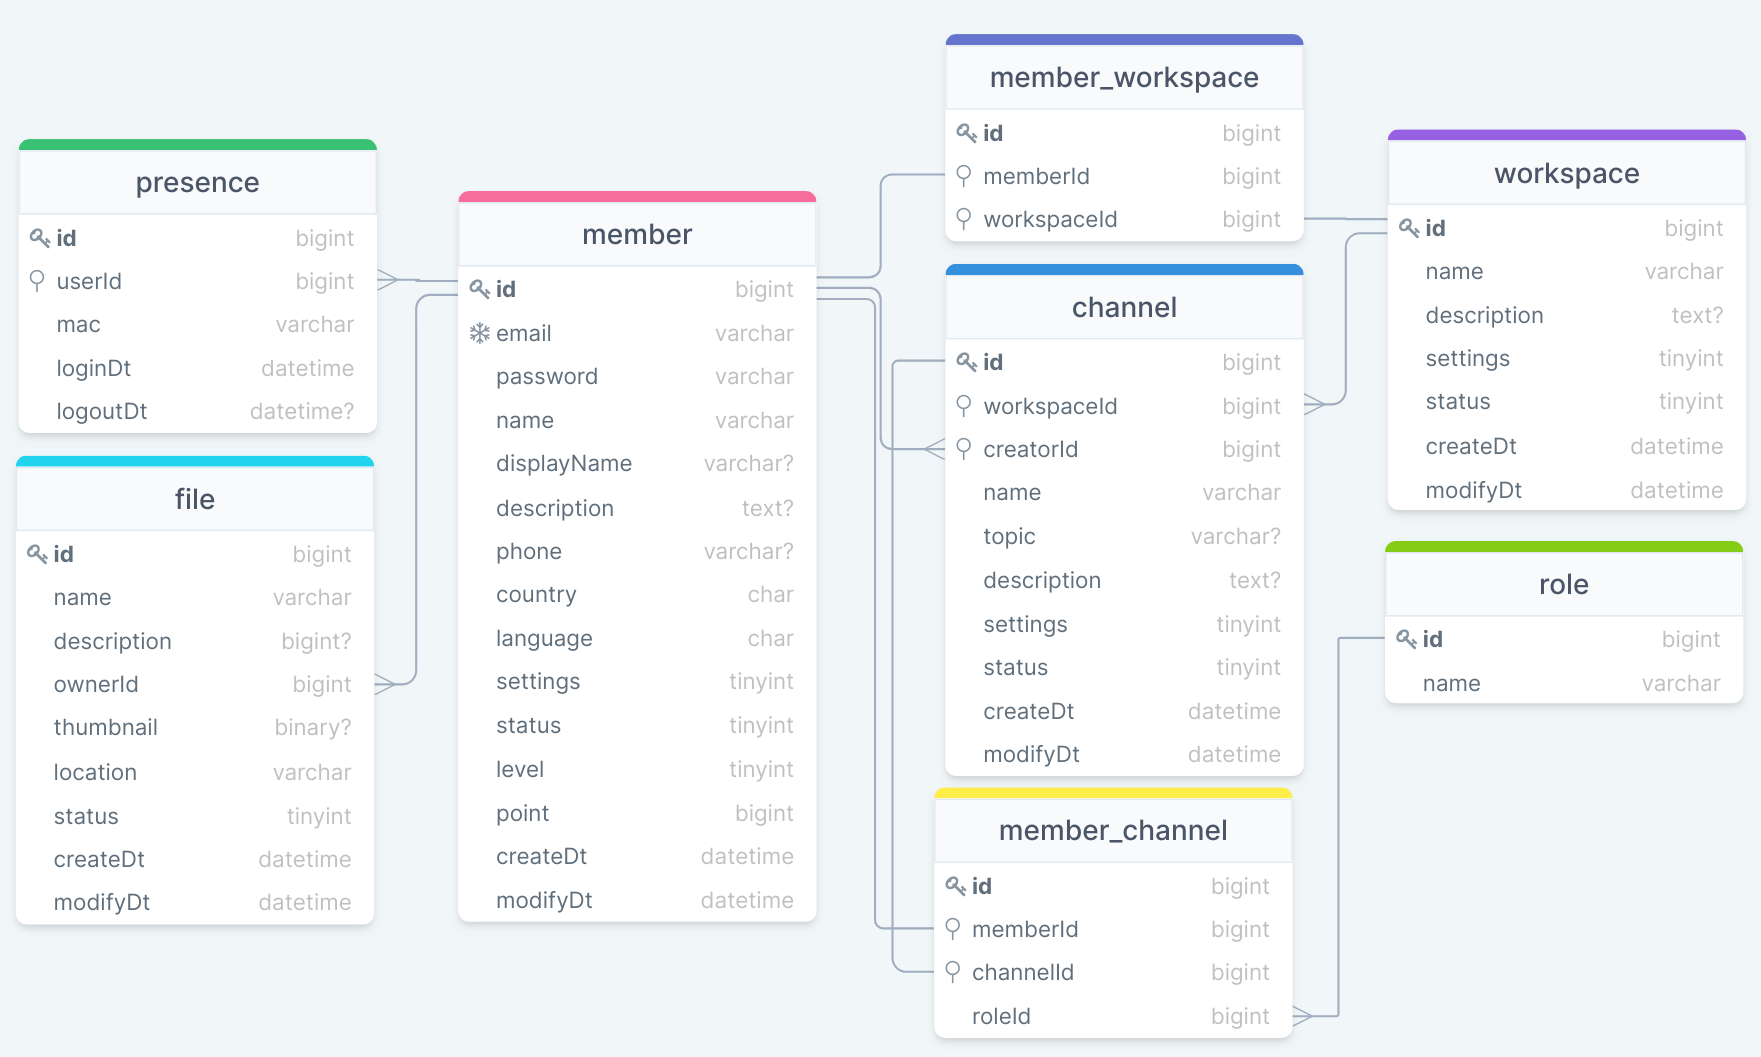
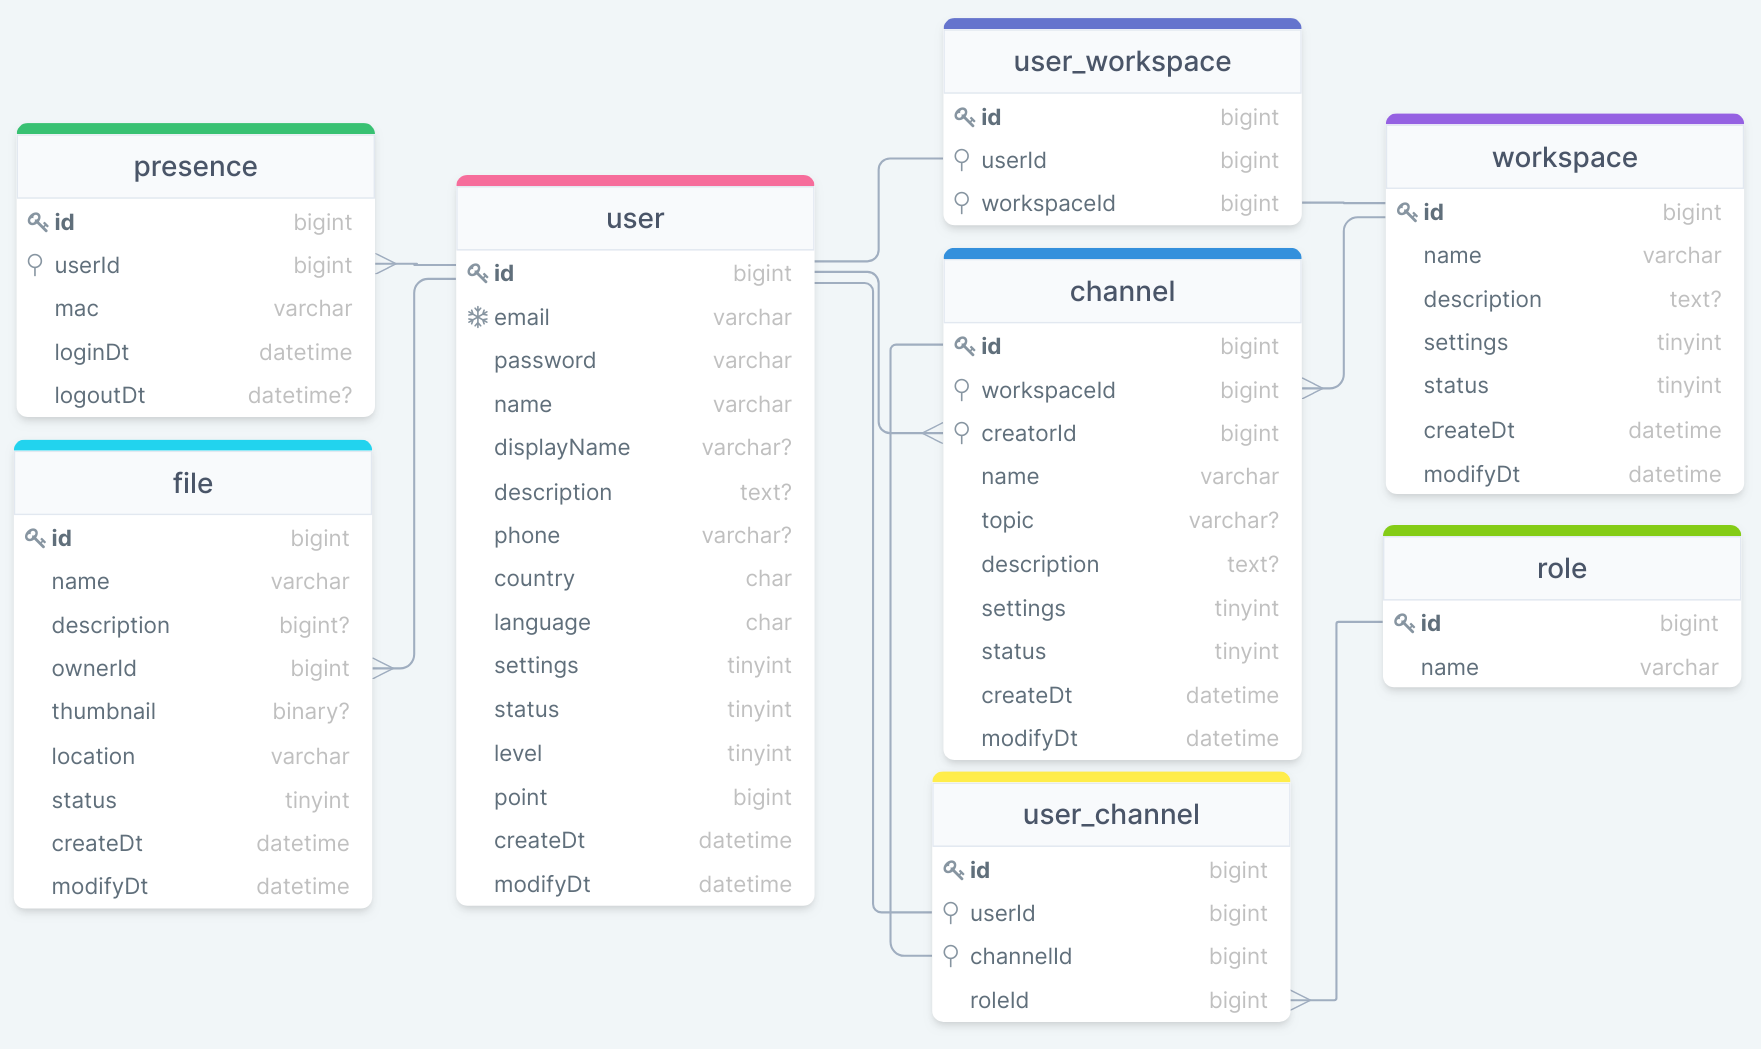
chore: MySQL 스키마 이미지 및 readme 수정

diff --git a/docs/README.md b/docs/README.md
@@ -9,3 +9,5 @@
   - MySQL 스키마에서 MongoDB로 분리한 테이블 삭제, presence 테이블 추가
   - MongoDB 스키마 이미지 및 원본 파일(drawio) 추가
   - column명을 camel case로 일괄 수정
+- 22.01.10 DB 스키마 수정
+  - MySQL 스키마에서 member -> user로 수정

diff --git a/scripts/README.md b/scripts/README.md
@@ -15,3 +15,4 @@
 - 22.01.10 DB 스키마 수정
   - MySQL 스키마에서 member -> user로 수정 (연관 테이블 일괄 수정)
     - MySQL 8.0에서 member가 예약어인 관계로 생기는 문제 해결
+ 
